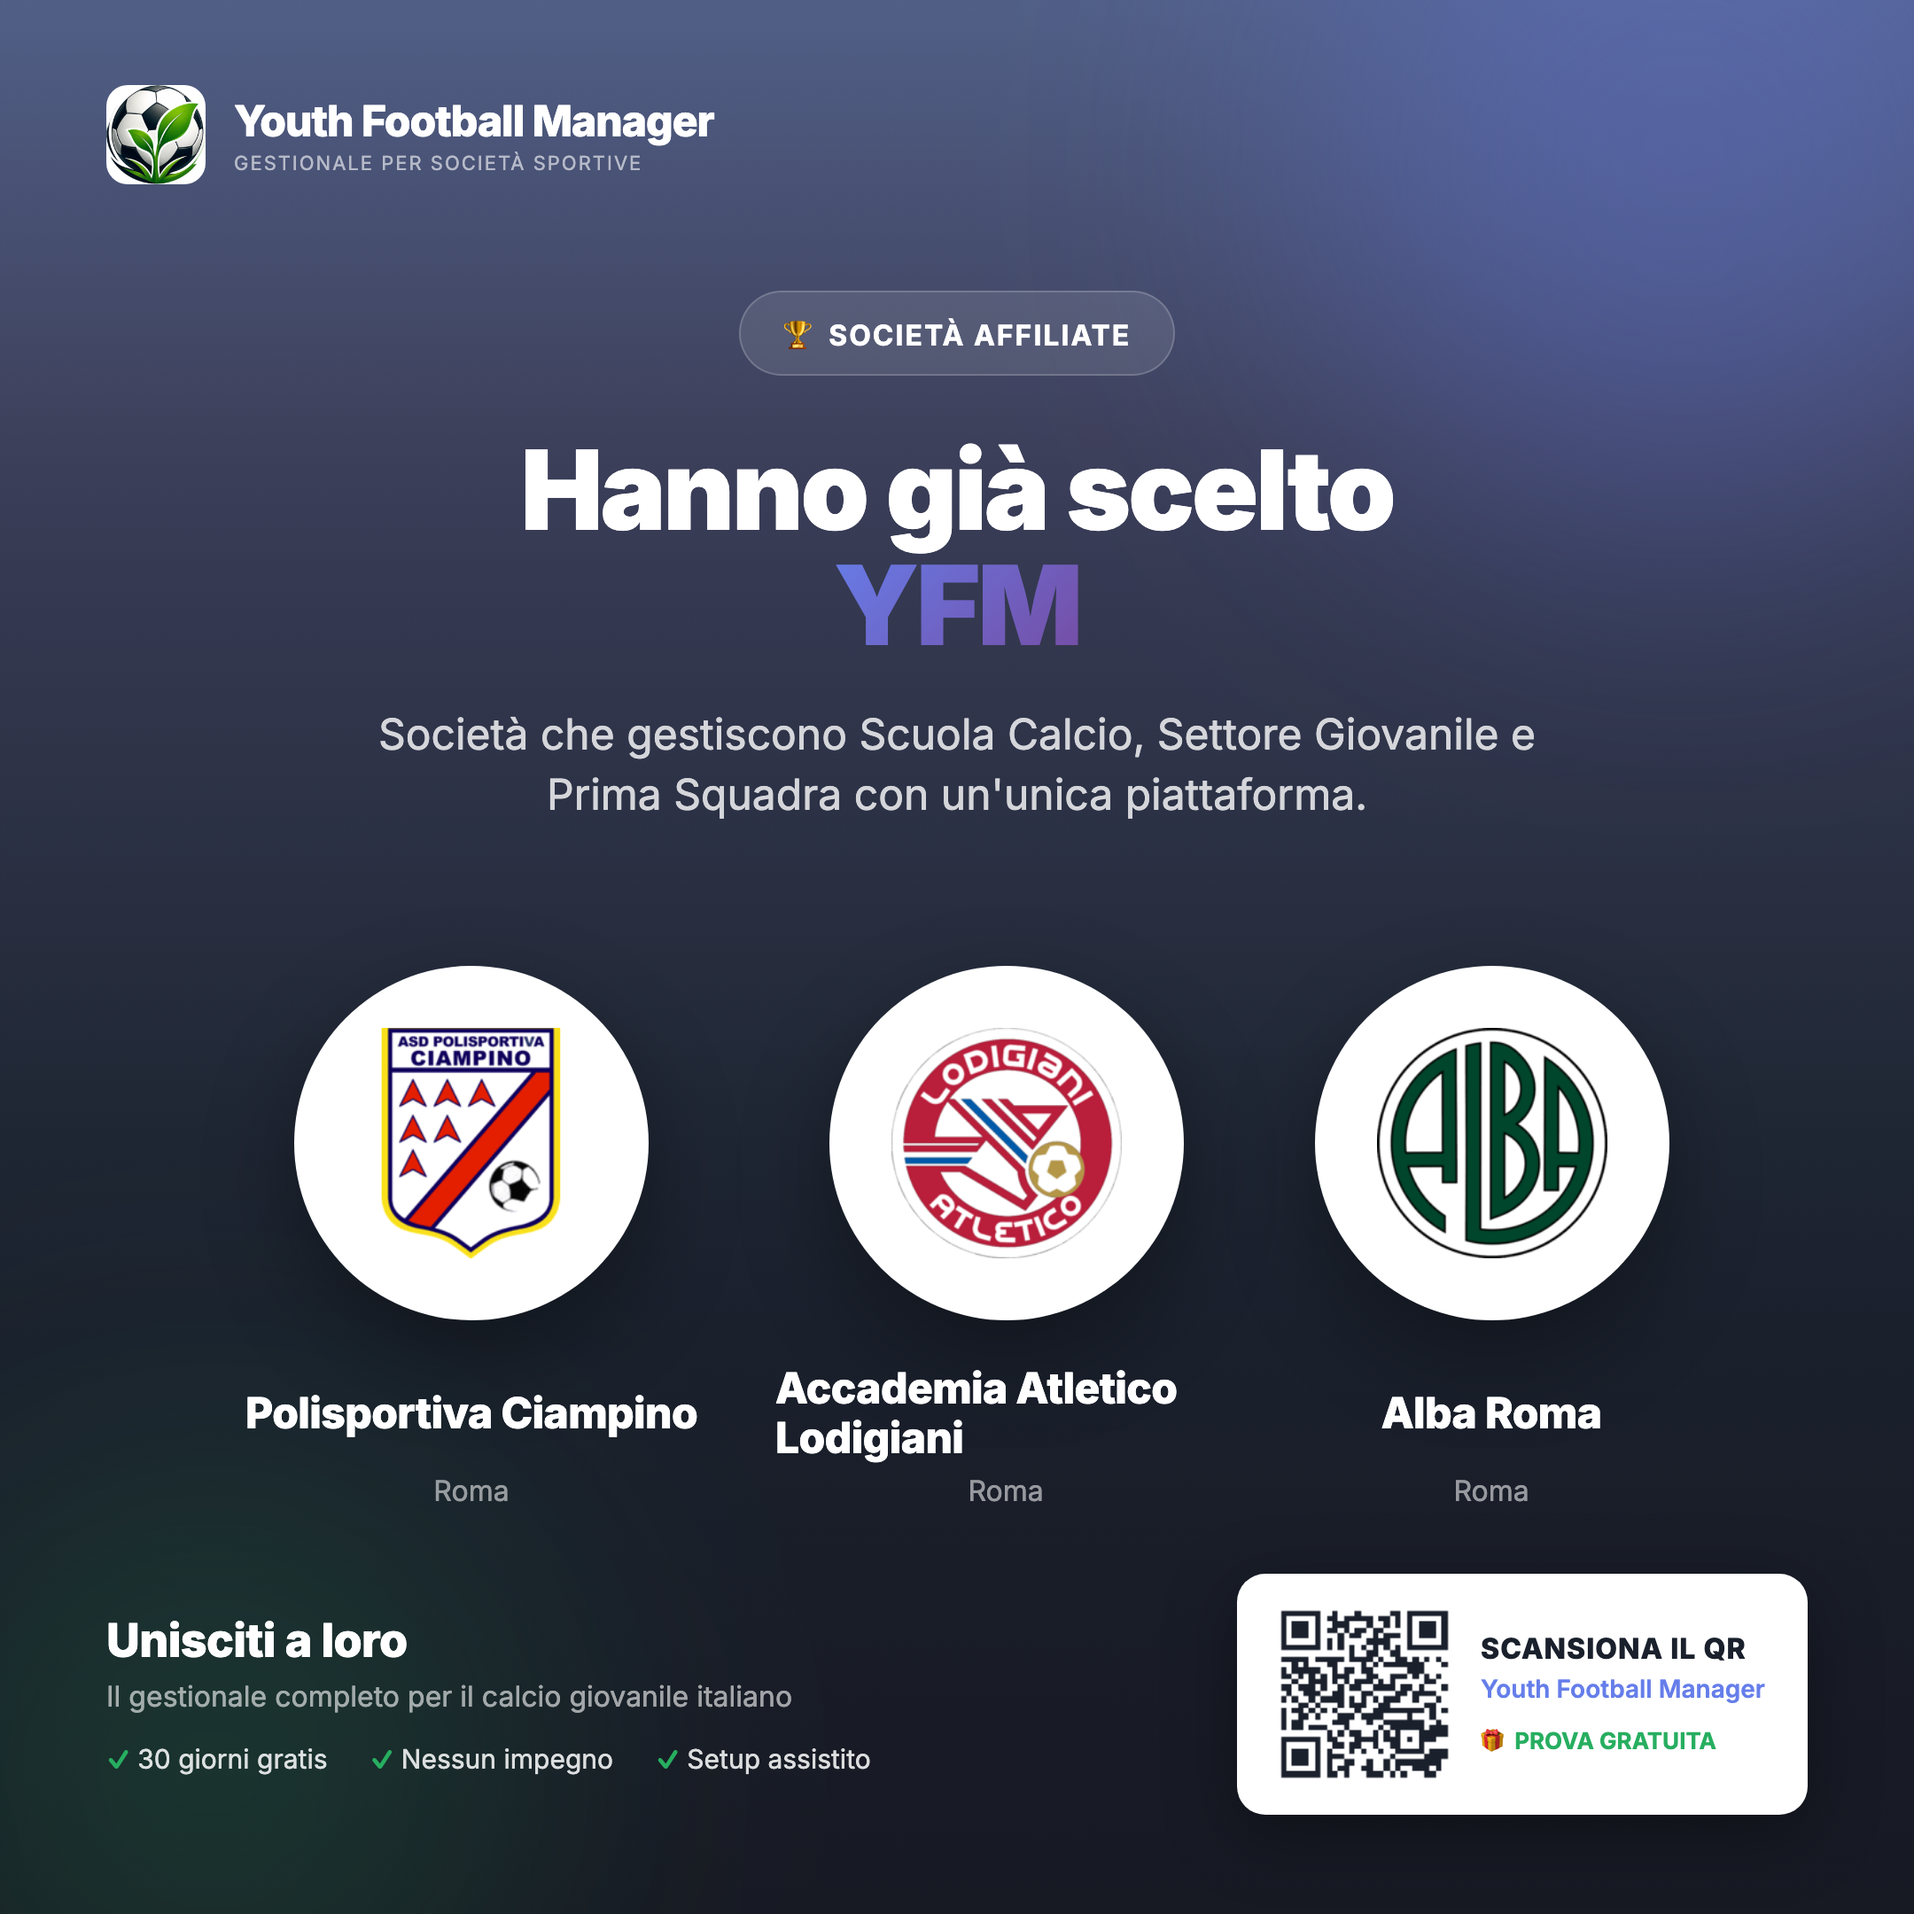
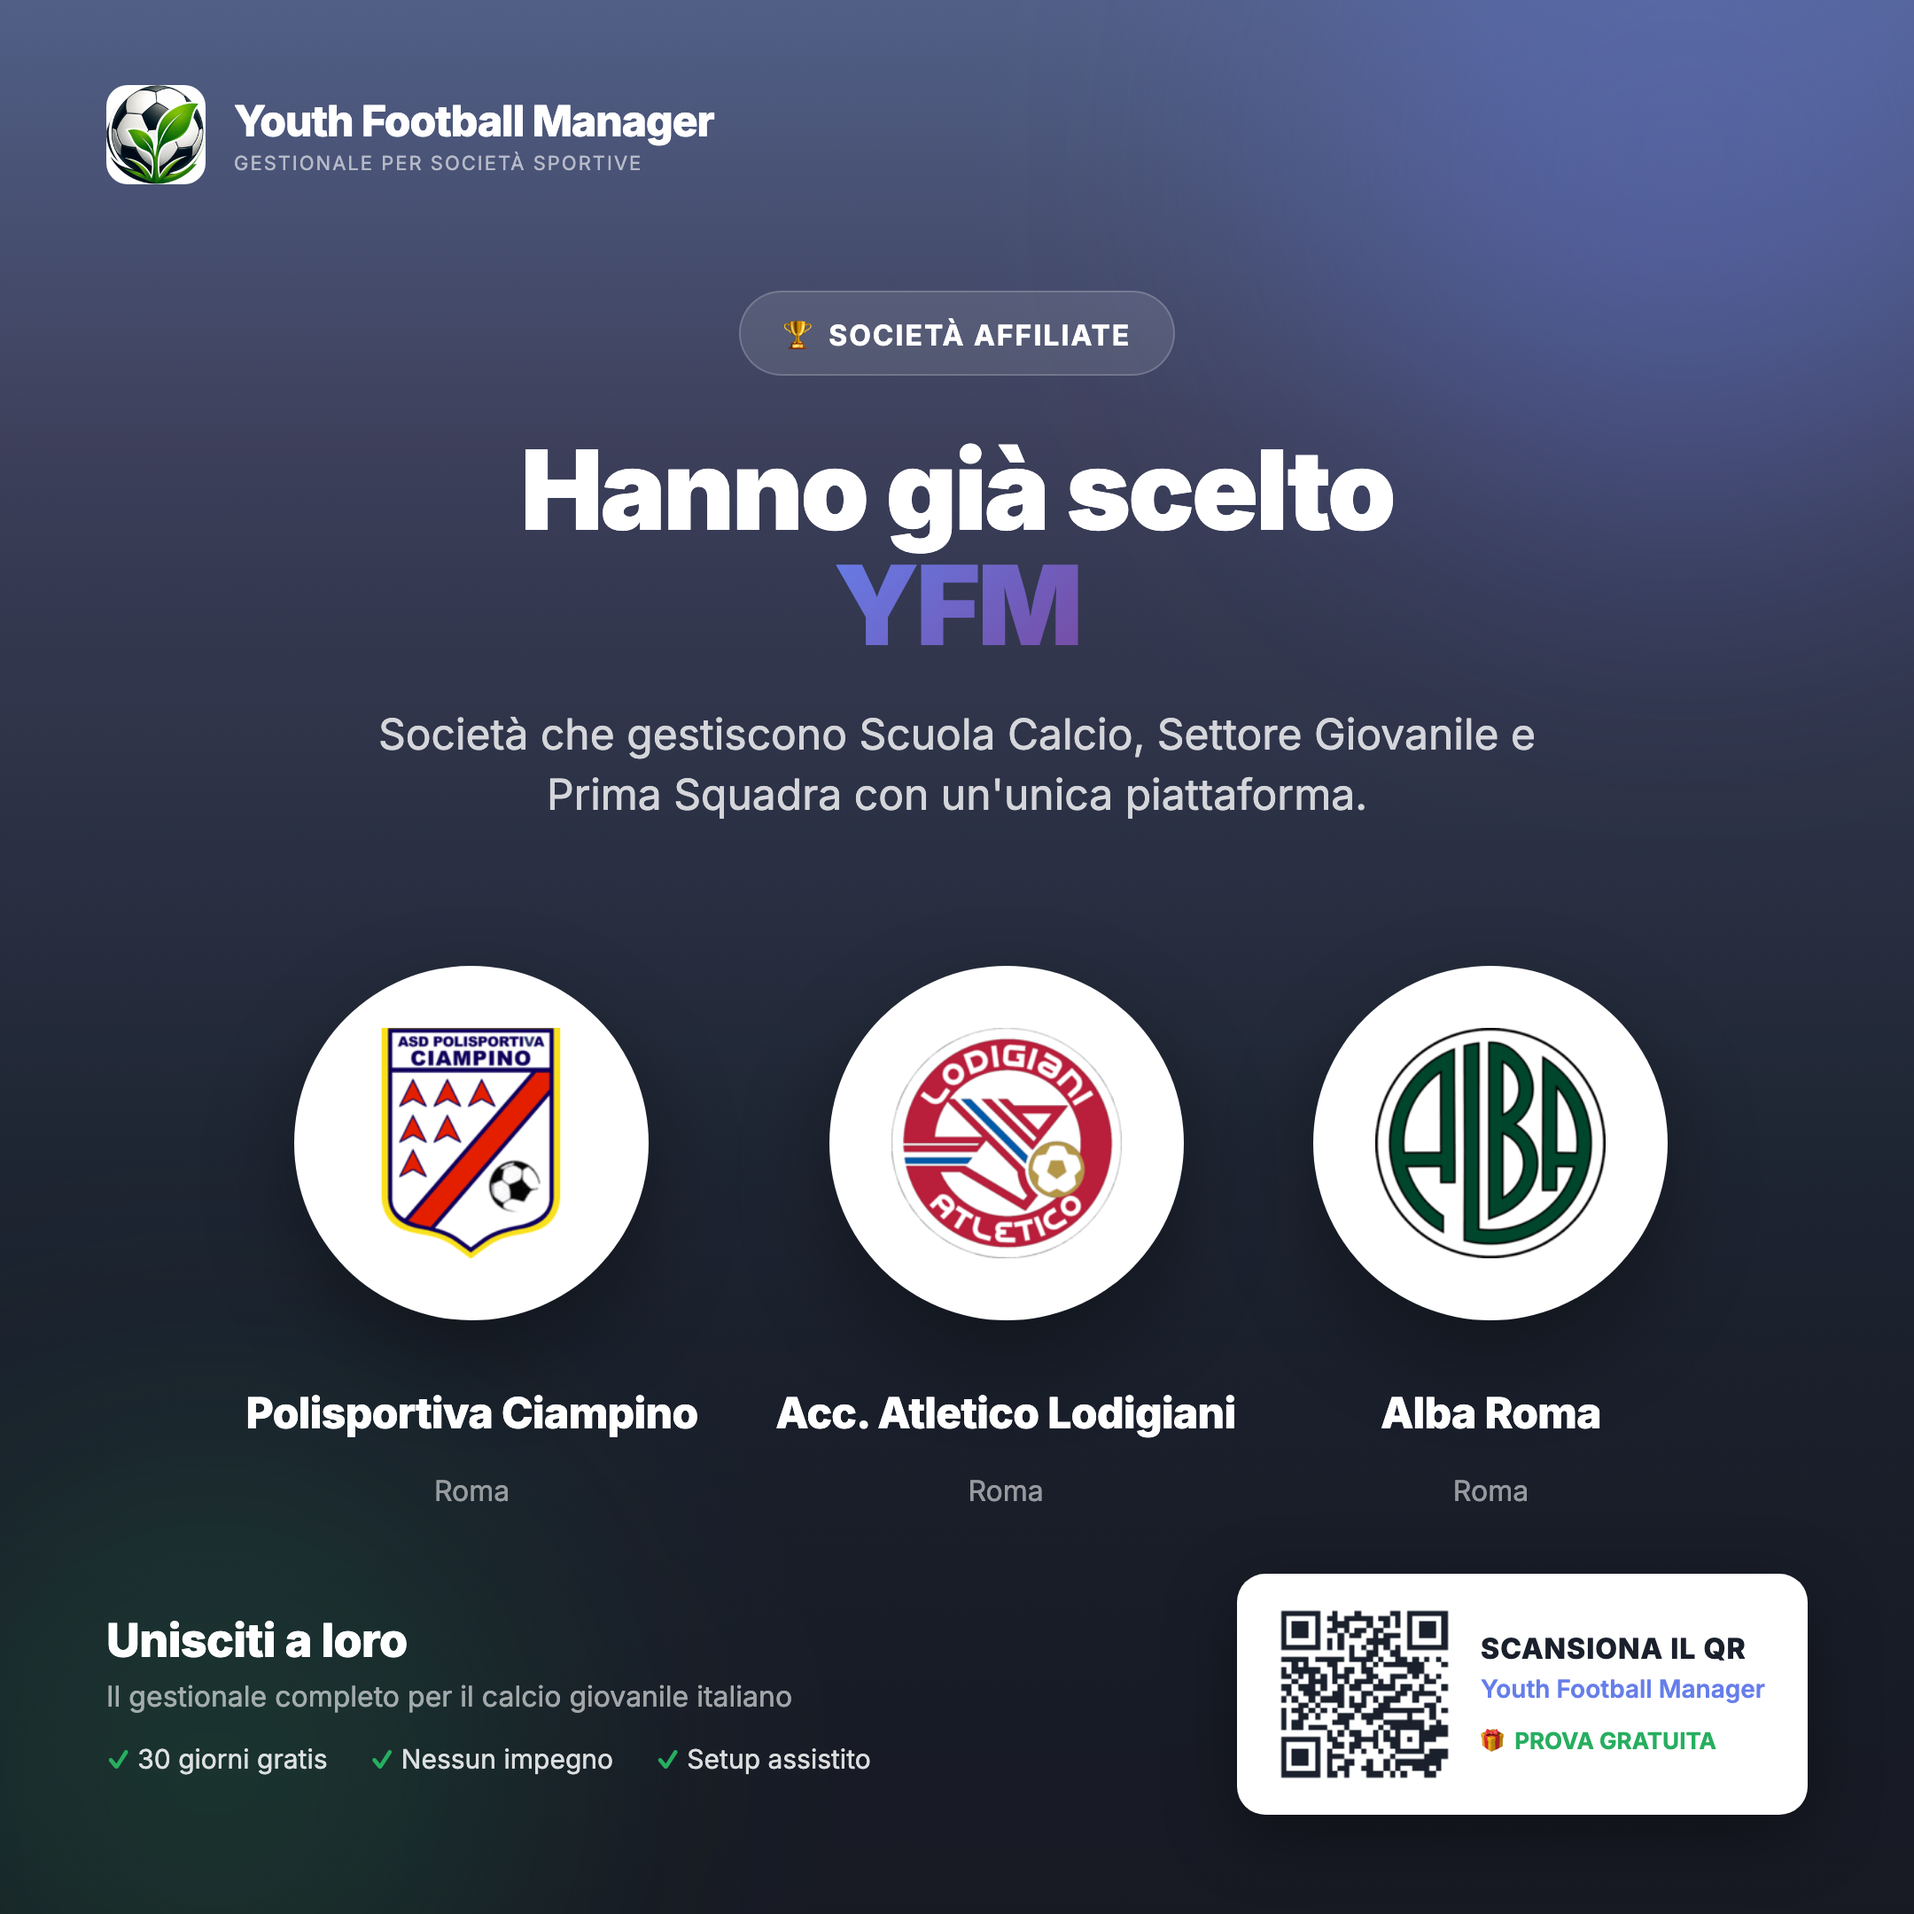
chore: abbrevia nome Lodigiani nella locandina affiliate (una riga)

Changed region(s): [[0.7134, 0.5273, 0.8375, 0.6514], [0.4032, 0.7134, 0.6514, 0.7755]]

diff --git a/landing/locandina-affiliate.html b/landing/locandina-affiliate.html
@@ -231,8 +231,8 @@
                 <div class="societa-meta">Roma</div>
             </div>
             <div class="societa-card">
-                <div class="societa-logo"><img src="/img/societa/atl-lodigiani.png" alt="Accademia Atletico Lodigiani"></div>
-                <div class="societa-nome">Accademia Atletico Lodigiani</div>
+                <div class="societa-logo"><img src="/img/societa/atl-lodigiani.png" alt="Acc. Atletico Lodigiani"></div>
+                <div class="societa-nome">Acc. Atletico Lodigiani</div>
                 <div class="societa-meta">Roma</div>
             </div>
             <div class="societa-card">
